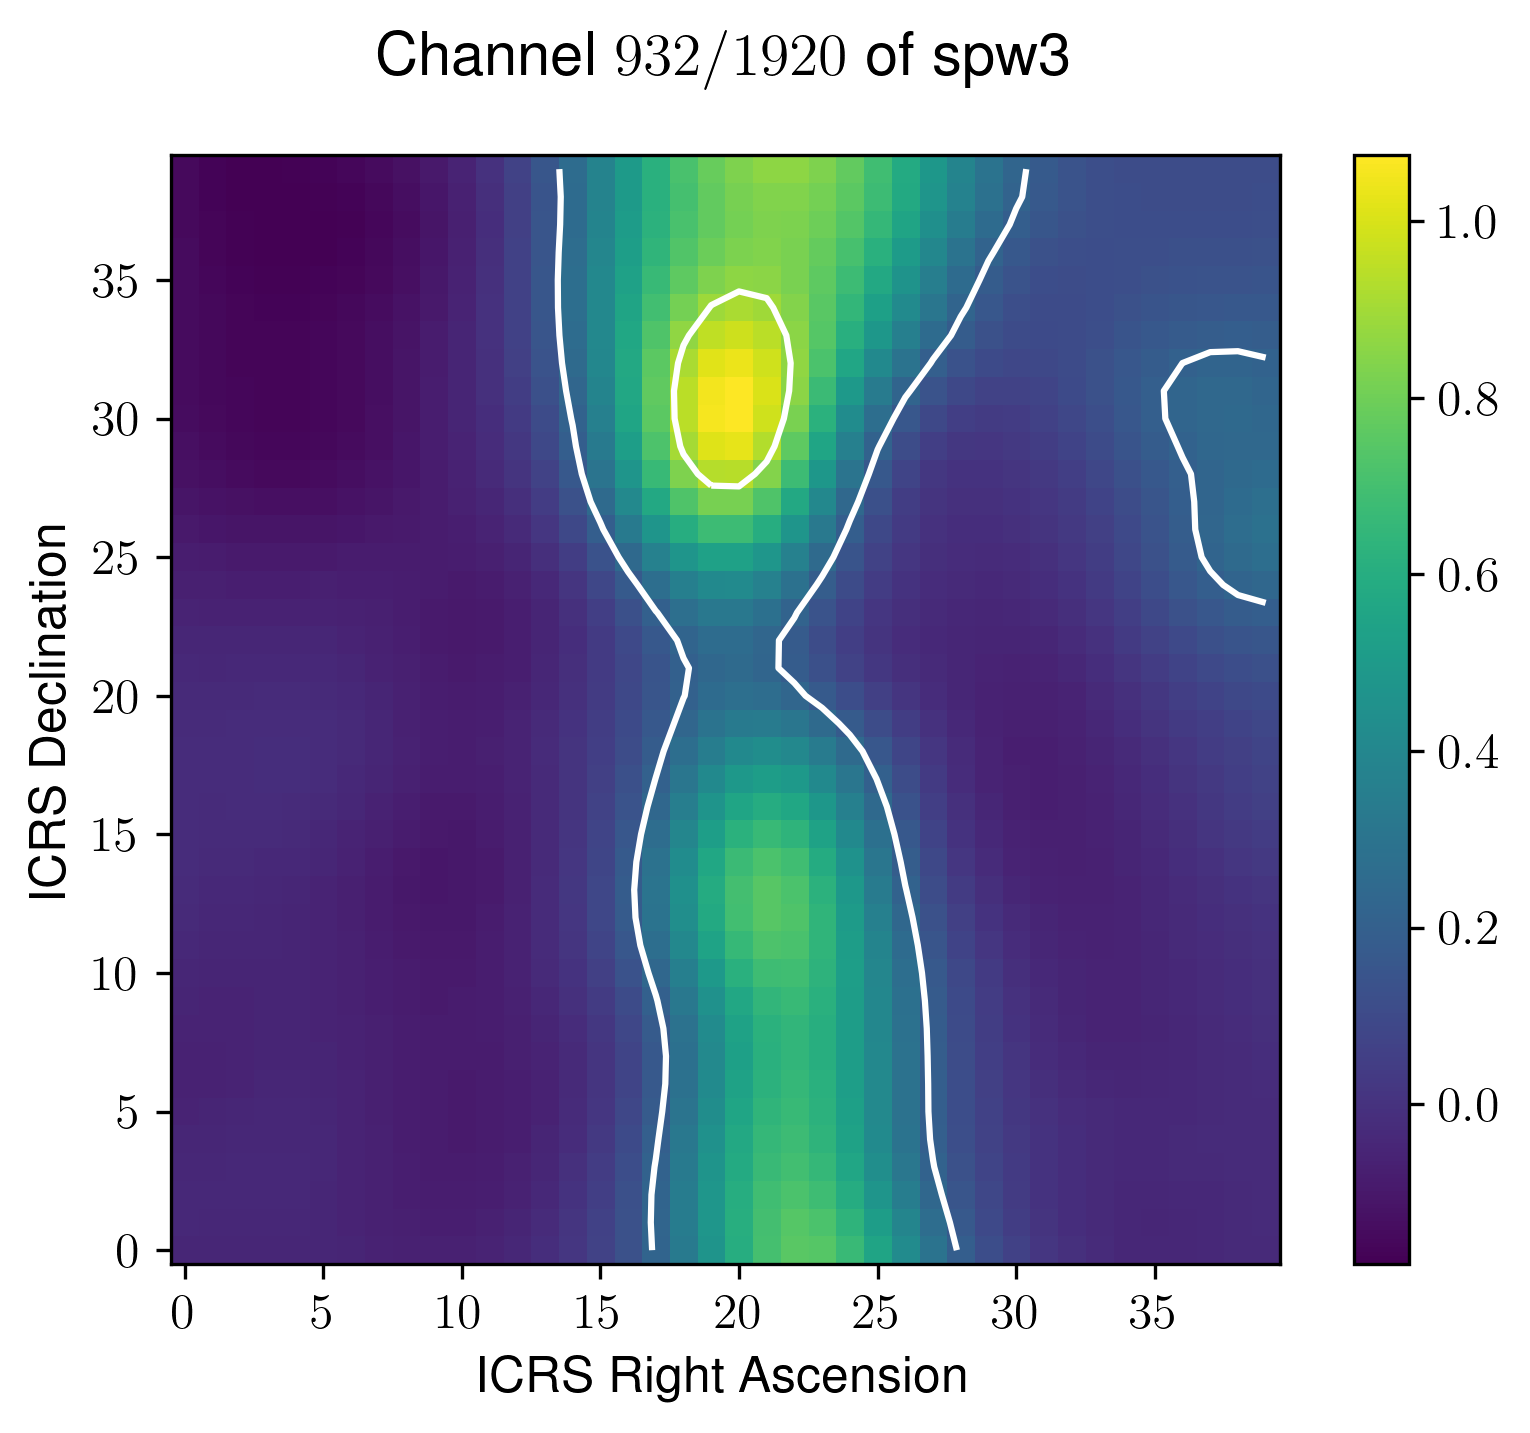
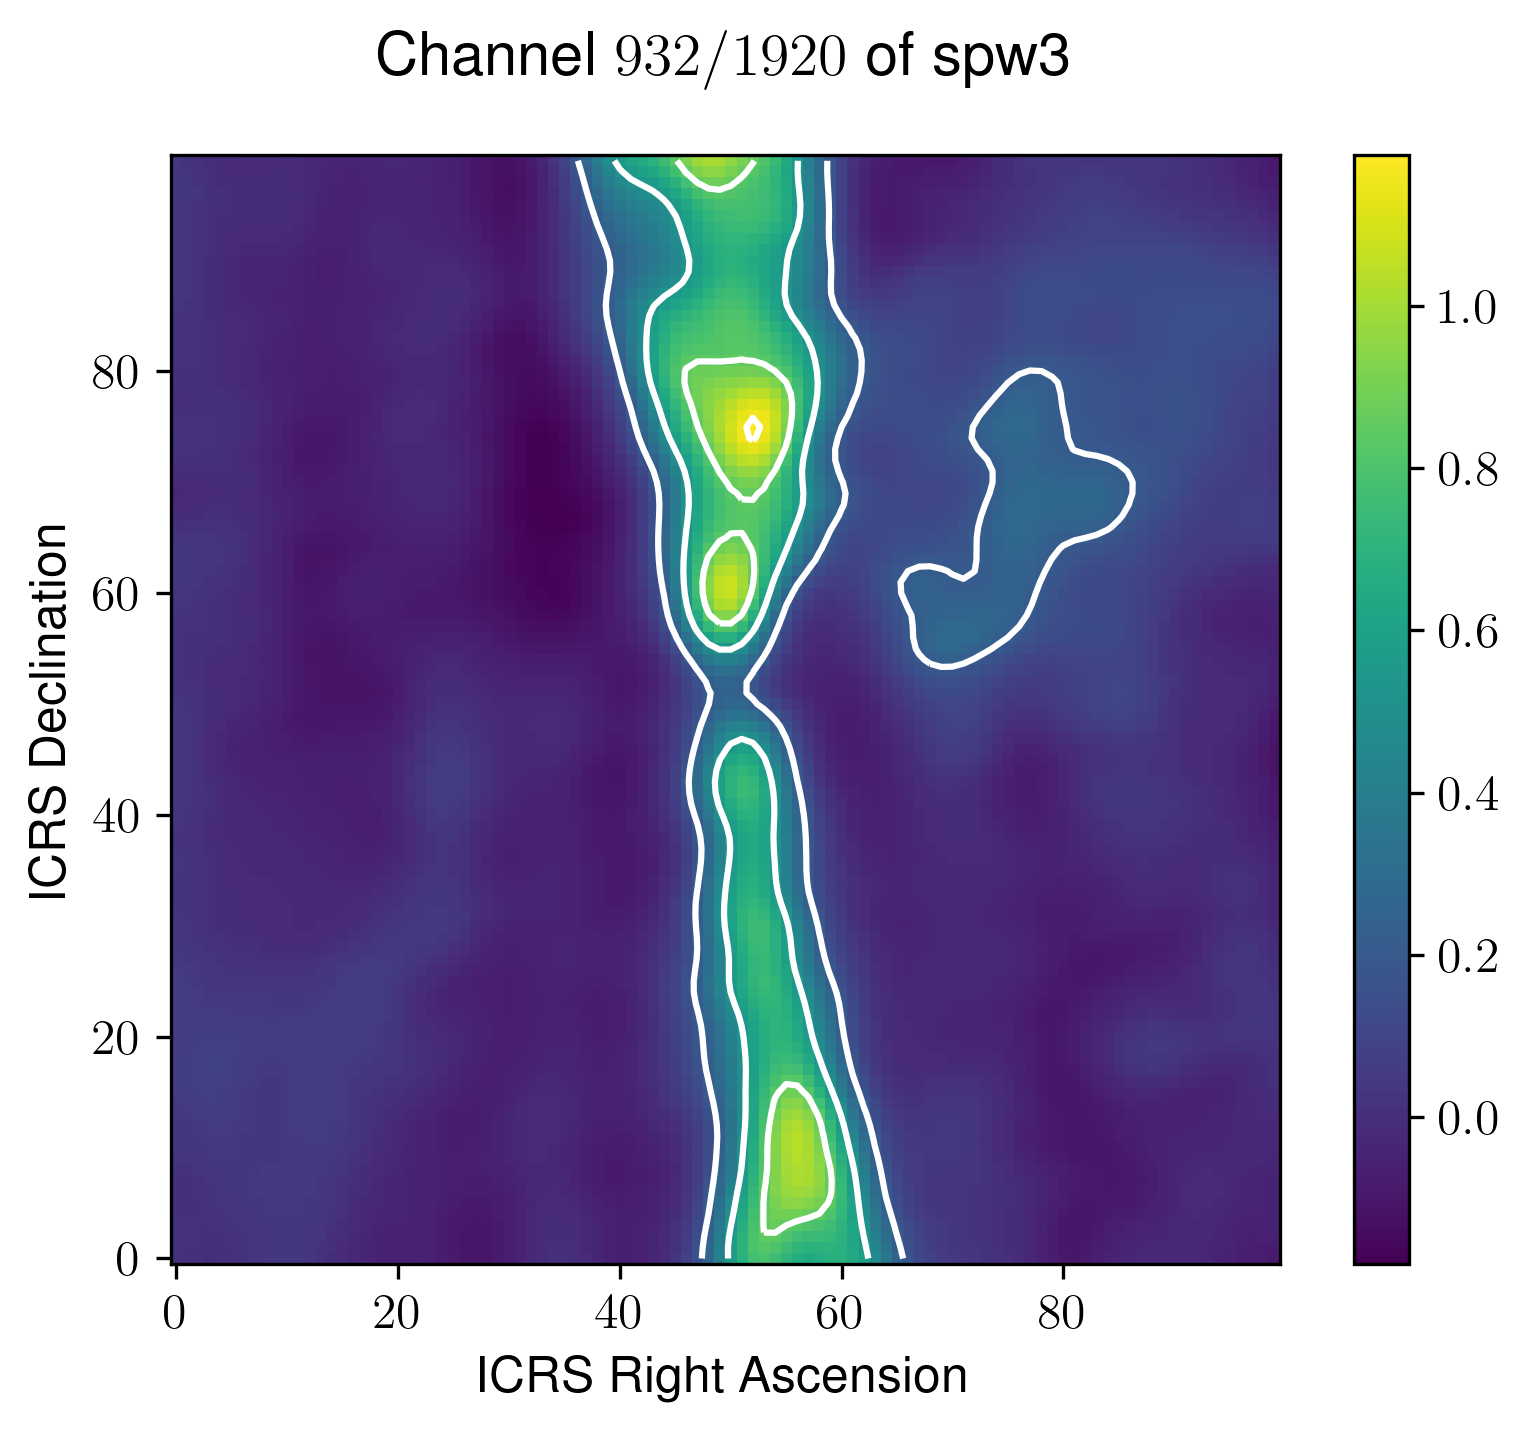
updated imgs

diff --git a/workspace/cubeplot/main.py b/workspace/cubeplot/main.py
@@ -3,9 +3,9 @@ import numpy as np
 from ContourPlotter import ContourPlotter
 
 FITS_NAME = "SerpS_TC_spw3.pbcor_cutout_180_180_100_line.fits"
-CUTOUT = 30
+CUTOUT = 0
 CHANNELS = [932]
-CONTOUR_LEVELS = np.linspace(2, 60, 10)
+CONTOUR_LEVELS = np.linspace(2, 60, 20)
 BACKGROUND_CENTER = 90
 BACKGROUND_SIZE = 10
 PREFIX = "spw3"
